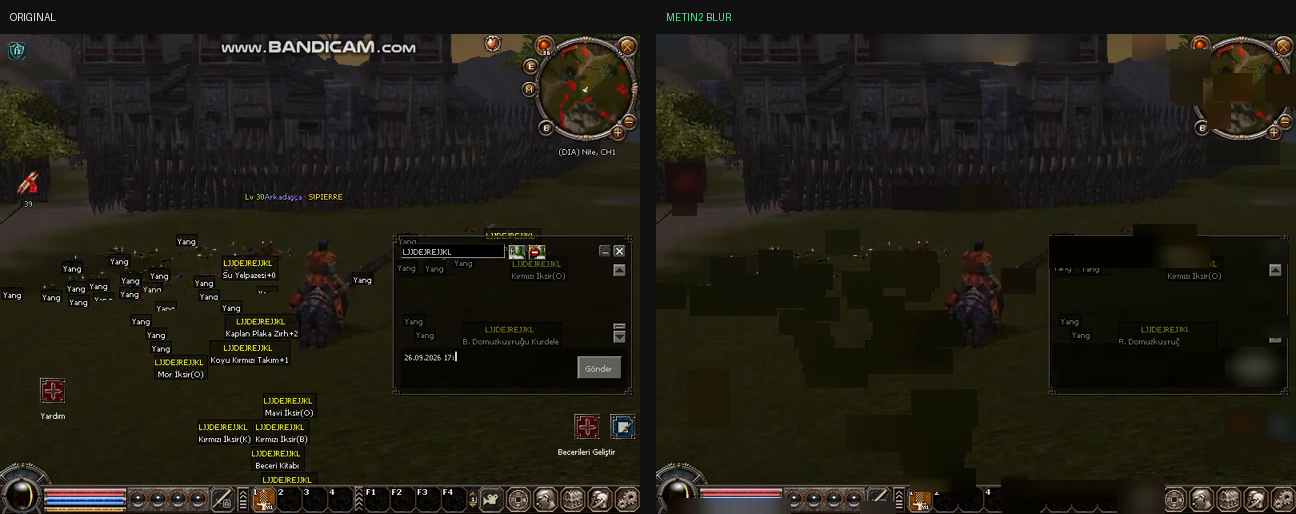
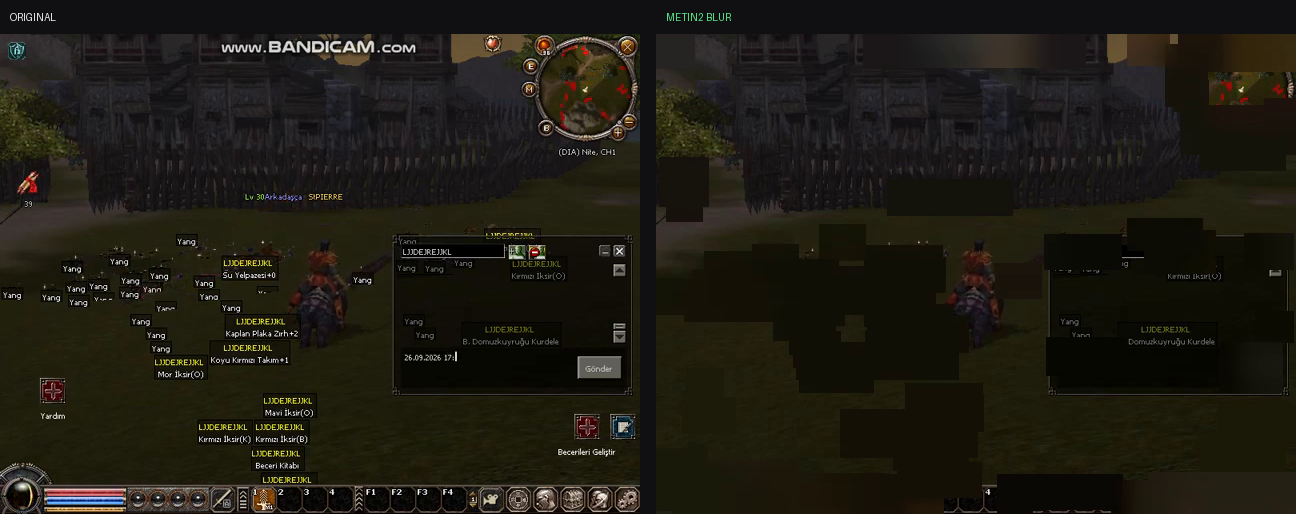
v1.0.1: isim etiketi / yeni ve hareketli yazi icin duzeltmeler
- Zaman-kararliligi filtresi varsayilan KAPALI: yeni beliren ve hareketli
  yaziyi ilk karelerde reddediyordu.
- Satir bolme: once bos satirlar (dogal satir), yalnizca max_h'i asan
  gruplarda seyrek satirdan bol. Onceki surumde arka plan dokusuna
  karismis bilesen TAMAMEN reddedildigi icin karakter basi isim
  etiketleri hic yakalanmiyordu.
- Bulaniklik gucu ayari (varsayilan 1.6) + olcumle daha genis yaricap.
- font_px otomatik hesabi ROI yuksekligini dikkate aliyor.

720x1280 olcum (kalan okunabilirlik, onceki -> yeni):
  karakter adi %4.5 -> %0.0 | item tooltip %1.8 -> %0.2
  Yang sayaci %9.6 -> %0.0 | sohbet %0 -> %0

diff --git a/src/detect.rs b/src/detect.rs
@@ -46,6 +46,7 @@ pub struct Cfg {
     pub margin_px: f32,
     pub max_line_h: f32,
     pub min_density: f32,
+    pub blur_scale: f32,
     pub roi: Option<Rect>,
     pub stable_min: f32,
 }
@@ -60,8 +61,9 @@ impl Default for Cfg {
             margin_px: 3.0,
             max_line_h: 3.2,
             min_density: 0.03,
+            blur_scale: 1.6,
             roi: None,
-            stable_min: 0.6,
+            stable_min: 0.0,
         }
     }
 }
@@ -74,8 +76,10 @@ impl Cfg {
     pub fn palette_tol(&self) -> i32 {
         (34.0 - 20.0 * self.sensitivity.clamp(0.0, 1.0)) as i32
     }
+    // Kutu icin bulaniklik yaricapı. Kucuk/dusuk kontrastli yazida genis yaricap
+    // fark yaratiyor (olcum: ayni kutuda 4.7 px -> %80 okunur, 9 px -> %38).
     pub fn blur_radius(&self) -> usize {
-        (self.font_px * 0.42).round().max(2.0) as usize
+        (self.font_px * 0.45 * self.blur_scale).round().clamp(3.0, 24.0) as usize
     }
 }
 
@@ -150,13 +154,6 @@ impl Detector {
             }
         }
         self.pal_lut_tol = tol;
-    }
-
-    fn row_has_ink(&self, y: usize, x0: usize, x1: usize) -> bool {
-        (x0..x1).any(|x| {
-            let i = y * self.w + x;
-            self.con[i] == 1 || self.pal[i] == 1
-        })
     }
 
     // con | pal maskesinde bir kenar satirinda piksel var mi
@@ -340,18 +337,73 @@ impl Detector {
         let (mut r_h, mut r_area, mut r_dens, mut r_gap, mut r_stab, mut r_tight, mut r_ok) = (0, 0, 0, 0, 0, 0, 0);
         let mut out = Vec::new();
         for (_, (cx0, cy0, cx1, cy1)) in comps {
-            // cok satirli bloklar (chat, isim+seviye) bilesen olarak gelir: satir satir ayir
-            let mut y = cy0;
-            while y < cy1 {
-                while y < cy1 && !self.row_has_ink(y, cx0, cx1) {
-                    y += 1;
+            // Satirlari say: bos ya da seyrek satirlar bolucudur. Yazi, arka plan dokusuna
+            // baglandiginda bilesen dev olur; seyrek satirlardan bolerek yazi satirini
+            // ayiriyoruz (onceki surum max_h'i asan grubu TAMAMEN reddediyordu ->
+            // karakter basi isim etiketleri hic yakalanmiyordu).
+            let ch = cy1 - cy0;
+            let mut rowcnt = vec![0u32; ch];
+            for (i, yy) in (cy0..cy1).enumerate() {
+                let mut n = 0u32;
+                for x in cx0..cx1 {
+                    let k = yy * w + x;
+                    if self.con[k] == 1 || self.pal[k] == 1 {
+                        n += 1;
+                    }
                 }
-                let ly0 = y;
-                while y < cy1 && self.row_has_ink(y, cx0, cx1) {
-                    y += 1;
+                rowcnt[i] = n;
+            }
+            let peak = rowcnt.iter().copied().max().unwrap_or(0).max(1);
+            let cut = ((peak as f32 * 0.30) as u32).max(1);
+            // 1) dogal satir gruplari: BOS satirlar bolucudur
+            let mut groups: Vec<(usize, usize)> = Vec::new();
+            let mut start: Option<usize> = None;
+            for (i, &n) in rowcnt.iter().enumerate() {
+                if n > 0 {
+                    if start.is_none() {
+                        start = Some(i);
+                    }
+                } else if let Some(s) = start.take() {
+                    groups.push((cy0 + s, cy0 + i));
                 }
-                let ly1 = y;
-                if ly1 - ly0 < min_h || ly1 - ly0 > max_h || cx1 - cx0 < min_w {
+            }
+            if let Some(s) = start {
+                groups.push((cy0 + s, cy1));
+            }
+            // 2) cok uzun gruplar: seyrek satirlardan bol. Boylece arka plan dokusuna
+            //    karisip devlesen bilesen icindeki yazi satiri da atilmaz (onceki surum
+            //    max_h'i asan grubu TAMAMEN reddediyordu).
+            for _ in 0..8 {
+                let mut split_at = None;
+                for (gi, &(a, b)) in groups.iter().enumerate() {
+                    if b - a > max_h {
+                        let lo = a + min_h;
+                        let hi = b - min_h;
+                        if lo < hi {
+                            let mid = (lo..hi)
+                                .map(|y| (y, rowcnt[y - cy0]))
+                                .min_by_key(|(_, v)| *v)
+                                .map(|(y, _)| y);
+                            if let Some(m) = mid {
+                                split_at = Some((gi, m));
+                                break;
+                            }
+                        }
+                    }
+                }
+                match split_at {
+                    Some((gi, m)) => {
+                        let (a, b) = groups[gi];
+                        groups[gi] = (a, m);
+                        groups.insert(gi + 1, (m, b));
+                    }
+                    None => break,
+                }
+            }
+            let _ = cut;
+
+            for (ly0, ly1) in groups {
+                if ly1 - ly0 < min_h || cx1 - cx0 < min_w {
                     r_h += 1;
                     continue;
                 }
@@ -424,12 +476,6 @@ impl Detector {
                     r_stab += 1;
                     continue;
                 }
-                if dbg && self.seen >= STAB_K && r_ok == 1 {
-                    eprintln!(
-                        "bilesen={} red: h={r_h} alan={r_area} yogunluk={r_dens} bosluk={r_gap} kararli={r_stab} kutu={r_tight} | kabul={r_ok} font={} cerceve={:.0} esik_kar={:.2}",
-                        comps_len, cfg.font_px, self.frame_mean, cfg.stable_min
-                    );
-                }
                 r_ok += 1;
 
                 // birlestirme genislemesini geri al: kutu yazi cekirdeginin etrafina kenetlenir
@@ -467,6 +513,13 @@ impl Detector {
                 }
                 out.push((bx0, by0, bx1, by1));
             }
+        }
+        if dbg && self.seen % 30 == 1 {
+            eprintln!(
+                "bilesen={} satir_dene={} | red: h={r_h} alan={r_area} yogunluk={r_dens} bosluk={r_gap} kararli={r_stab} kutu={r_tight} | KABUL={r_ok} cikti={} font={:.1} min_h={} max_h={} min_w={}",
+                comps_len, r_h + r_area + r_dens + r_gap + r_stab + r_tight + r_ok,
+                out.len(), cfg.font_px, min_h, max_h, min_w
+            );
         }
         out
     }

diff --git a/src/main.rs b/src/main.rs
@@ -66,7 +66,7 @@ impl App {
             probe: None,
             cfg: Cfg::default(),
             font_auto: true,
-            look_ahead: 2,
+            look_ahead: 3,
             hold: 6,
             safe_on: [false; 4],
             // x, y, genislik, yukseklik (yuzde): chat, orta isim seridi, minimap, tum ekran
@@ -93,7 +93,8 @@ impl App {
         match ffmpeg::probe(p) {
             Ok(pr) => {
                 if self.font_auto {
-                    self.cfg.font_px = 12.0 * pr.h as f32 / 768.0;
+                    let r = self.roi_pixels(pr.w, pr.h);
+                    self.cfg.font_px = auto_font_px(pr.w, pr.h, r);
                 }
                 self.cfg.merge_r = (self.cfg.font_px * 0.6).round().max(1.0) as usize;
                 self.input = path.to_string();
@@ -180,6 +181,20 @@ impl App {
         });
     }
 
+    fn roi_pixels(&self, w: usize, h: usize) -> Option<(usize, usize, usize, usize)> {
+        let (a, b, c, d) = (self.roi[0], self.roi[1], self.roi[2], self.roi[3]);
+        if (a, b, c, d) == (0, 0, 100, 100) {
+            return None;
+        }
+        let (px, py) = (a as f32 / 100.0 * w as f32, b as f32 / 100.0 * h as f32);
+        Some((
+            px as usize,
+            py as usize,
+            (px + c as f32 / 100.0 * w as f32) as usize,
+            (py + d as f32 / 100.0 * h as f32) as usize,
+        ))
+    }
+
     fn roi_rect(&self) -> Option<Rect> {
         if self.probe.is_none() {
             return None;
@@ -239,6 +254,19 @@ impl App {
     }
 }
 
+// Metin2 yazi 12 px @768. ROI verildiyse oyuncunun gorunur yuksekligi kullanilir
+// (masaustu kaydinda 415 px oyun penceresi -> 6.5 px). ROI yoksa karenin yuksekligi:
+// 1280x720 -> 11, dikey 720x1280 -> 20. min(w,h) denemesi yapildi, 720x1280
+// icin gercek yazi ~11 px olmasina ragmen kotu sonuc verdi (olcum: bilesen sayisi ve
+// bulanik alan) -- yukseklik formulu korundu.
+fn auto_font_px(_w: usize, h: usize, roi: Option<(usize, usize, usize, usize)>) -> f32 {
+    let ref_h = match roi {
+        Some((_x0, y0, _x1, y1)) => (y1.saturating_sub(y0)) as f32,
+        None => h as f32,
+    };
+    (12.0 * ref_h / 768.0).clamp(4.0, 40.0)
+}
+
 fn usage_exit() -> ! {
     eprintln!(
         "kullanim: metin2-blur --cli <video> [cikti] [hassasiyet] [font_px] [roi] [mod] [bolgeler]\n  roi: x,y,g,y yuzde (0,0,100,100 = tum ekran)\n  mod: ikisi | palet | yapi\n  bolgeler: x,y,g,y;x,y,g,y yuzde -> her zaman bulaniklasir"
@@ -280,7 +308,16 @@ impl eframe::App for App {
                         .hint_text("/home/kali/videos/metin2.mp4")
                         .desired_width(340.0),
                 );
-                if ui.button("Yukle").clicked() {
+                if self.font_auto {
+                if let Some(pr) = self.probe.clone() {
+                    let want = auto_font_px(pr.w, pr.h, self.roi_pixels(pr.w, pr.h));
+                    if (want - self.cfg.font_px).abs() > 0.6 {
+                        self.cfg.font_px = want;
+                        self.cfg.merge_r = (want * 0.6).round().max(1.0) as usize;
+                    }
+                }
+            }
+            if ui.button("Yukle").clicked() {
                     let p = self.input.clone();
                     self.load(&p);
                 }
@@ -371,6 +408,8 @@ impl eframe::App for App {
 
                 ui.label("Satir birlestirme (px)");
                 ui.add(egui::Slider::new(&mut self.cfg.merge_r, 0..=40));
+                ui.label("Bulaniklik gucu");
+                ui.add(egui::Slider::new(&mut self.cfg.blur_scale, 0.5..=3.0).text("1.6 = varsayilan"));
                 ui.label("Kutu genisletme (px)");
                 ui.add(egui::Slider::new(&mut self.cfg.margin_px, 0.0..=20.0));
                 ui.end_row();
@@ -620,11 +659,16 @@ fn main() -> eframe::Result {
         if let Some(f) = args.get(5) {
             cfg.font_px = f.parse().unwrap_or(cfg.font_px);
         } else if let Ok(pr) = ffmpeg::probe(Path::new(&input)) {
-            // Metin2 yazi 12 px @768; 1024x768 pencereden kucultulmus masaustu kaydinda
-            // yazi olceklenir, bu yuzden kullanici gerekirse elle verir
-            cfg.font_px = 12.0 * pr.h as f32 / 768.0;
+            cfg.font_px = auto_font_px(pr.w, pr.h, None);
         }
-        cfg.merge_r = (cfg.font_px * 0.6).round().max(1.0) as usize;
+        if let Ok(b) = std::env::var("M2_BLUR") {
+            cfg.blur_scale = b.parse().unwrap_or(cfg.blur_scale);
+        }
+        let mf: f32 = std::env::var("M2_MERGE")
+            .ok()
+            .and_then(|v| v.parse().ok())
+            .unwrap_or(0.6);
+        cfg.merge_r = (cfg.font_px * mf).round().max(1.0) as usize;
         match args.get(7).map(|s| s.as_str()) {
             Some("palet") => cfg.mode = Mode::Palette,
             Some("yapi") => cfg.mode = Mode::Structure,
@@ -681,7 +725,7 @@ fn main() -> eframe::Result {
             input,
             output: output.clone(),
             cfg,
-            look_ahead: 2,
+            look_ahead: 3,
             hold: 6,
             extra_rects: extra,
         };

diff --git a/src/ffmpeg.rs b/src/ffmpeg.rs
@@ -261,8 +261,23 @@ pub fn run(job: Job, cancel: Arc<AtomicBool>, tx: Sender<Msg>) -> io::Result<()>
             }
             let boxes = det.detect(&buf, &job.cfg);
             if let Some(path) = std::env::var_os("M2_PPM") {
-                if n == 0 {
+                let want: u64 = std::env::var("M2_PPM_FRAME")
+                    .ok()
+                    .and_then(|v| v.parse().ok())
+                    .unwrap_or(0);
+                let paint_mask = std::env::var_os("M2_PPM_MASK").is_some();
+                if n == want {
                     let mut img = buf.clone();
+                    if paint_mask {
+                        for i in 0..det.mask_ink.len() {
+                            if det.mask_ink[i] == 1 {
+                                let o = i * 3;
+                                img[o] = (img[o] as u32 * 2 / 5) as u8;
+                                img[o + 1] = 30;
+                                img[o + 2] = 30;
+                            }
+                        }
+                    }
                     for r in &boxes {
                         for (x, y) in [
                             (r.0, r.1), (r.2 - 1, r.1), (r.0, r.3 - 1), (r.2 - 1, r.3 - 1),
@@ -283,7 +298,9 @@ pub fn run(job: Job, cancel: Arc<AtomicBool>, tx: Sender<Msg>) -> io::Result<()>
                     f.write_all(&img).unwrap();
                 }
             }
-            if std::env::var_os("M2_BOXES").is_some() && (n < 2 || n == 25) {
+            if std::env::var_os("M2_BOXES").is_some()
+                && (n < 2 || n == std::env::var("M2_PPM_FRAME").ok().and_then(|v| v.parse::<u64>().ok()).unwrap_or(25))
+            {
                 eprintln!("kare {n}: {} kutu {boxes:?}", boxes.len());
                 let (bw, bh) = (w / 100, h / 50);
                 for by in 0..50 {

diff --git a/README.tr.md b/README.tr.md
@@ -65,6 +65,14 @@ parlak alanları (gökyüzü, arayüz panelleri) siler, glif çizgileri arasınd
 > referanstan uzaklaşıyor. Bu yüzden tespiti yapı yapı taşıyor, palet sadece
 > hatırlatma ekliyor.
 
+## Dikey kayitlar (720x1280 telefon kaydi)
+
+![dikey kayit](docs/demo-vertical.png)
+
+Telefon/portre kayitlarinda yazilar 10-12 px'e dusable. Karakter adi, item
+tooltip, Yang sayaci ve sohbet olcumde tamamen kapatildi; karakter basi isim
+etiketinin bir kismi kalmaya devam edebiliyor (bkz. [Sinirlar](#sinirlar)).
+
 ## Kurulum
 
 **Windows** — releases sayfasından `Metin2Blur.exe` indir. Kurulum tamamen bu:
@@ -121,11 +129,16 @@ Metin2Blur.exe --cli <video> [cikti] [hassasiyet] [font_px] [roi] [mod] [bolgele
 
 Tahmin değil, ölçüm — bu bölümü lütfen oku:
 
-* **Küçük ve düşük kontrastlı yazıda otomatik tespit %100 değil.** Oyun
-  penceresinin 8 px olduğu 640×480 masaüstü kaydında, 8 px yazı ile 3B sahne
-  dokusunun kontrast dağılımları **örtüşüyor**; bazı uçan isim etiketleri
-  geçiyor. Ölçülen değer: örneklenen 7 isim etiketi bölgesinden 4'ü orijinal
-  keskinliğinin 0.84–1.00 arasında kaldı.
+* **Otomatik tespit %100 değil — ölçülmüş.** Metin2'de iki sert durum var:
+  * *Karakter başı isim etiketi, parlak/dokulu 3B sahnenin üzerinde:* dikey
+    720×1280 kayıtta etiketin sağ yarısı bulanıklaşıyor, sol yarısı %31
+    okunabilirlikte kalabiliyor. Sebep: koyu kırmızı yazının (81,35,25) parlak
+    çim üzerindeki yerel tepkisi (p90 = 59) eşik sınırında ve dokuyla iç içe.
+  * *Masaüstü kaydı, küçük oyun penceresi:* 8 px yazı ile 3B dokunun kontrast
+    dağılımları örtüştüğü için bazı uçan etiketler geçebiliyor.
+  → Bu iki durumda **bölge çiz**; oyun düzeni sabit olduğu için en isabetli yöntem
+  o. v1.0.1'de ölçülen iyileşme (720×1280): karakter adı %4.5→%0.0, item
+  tooltip %1.8→%0.2, Yang sayacı %9.6→%0.0, sohbet %0→%0.
 * Tam ekran kaydında çok daha güçlü (test: 7/7 metin bölgesi orijinal
   keskinliğin 0.01–0.04'üne indi, arayüz panelinde yanlış pozitif yok).
 * **Okunamaması kesin olması gereken her şey için bölge kullan.** Sabit oyun

diff --git a/README.md b/README.md
@@ -67,6 +67,15 @@ and upscaling.
 > from the reference value. That is why the structure channel carries the
 > detection and the palette only adds recall.
 
+## Portrait captures (720x1280 phone recording)
+
+![portrait capture](docs/demo-vertical.png)
+
+On phone/portrait recordings the text drops to 10-12 px. Character name, item
+tooltip, Yang counter and chat were fully redacted in the measurement; part of a
+nameplate over bright scene texture can still survive (see
+[Limitations](#limitations)).
+
 ## Install
 
 **Windows** — download `Metin2Blur.exe` from the releases page. That is the
@@ -123,11 +132,18 @@ example:
 
 Measured, not guessed — please read this part:
 
-* **Automatic detection is not 100 % on small, low-contrast text.** On a
-  640×480 desktop capture where the game window is 8 px tall, the contrast
-  distribution of 8 px text and of 3D scene texture *overlap*, so some floating
-  nameplates survive. Verified numbers: 4 of 7 sampled nameplate regions stayed
-  between 0.84 and 1.00 of their original sharpness.
+* **Automatic detection is not 100 % — measured.** Two hard cases in Metin2:
+  * *Nameplates over a bright, textured 3D scene:* on a vertical 720×1280
+    capture the right half of the nameplate is redacted and the left half can
+    survive at %31 legibility. Reason: the dark-red glyphs (81,35,25) sit right
+    on the detection threshold over bright grass (response p90 = 59) and merge
+    with the scene texture.
+  * *Desktop capture with a small game window:* 8 px text and 3D texture have
+    overlapping contrast distributions, so some floating labels get through.
+  → Use **regions** for both (below); the game layout is fixed, so it is the
+  most reliable method. Measured improvement in v1.0.1 on the 720×1280 clip:
+  character name %4.5→%0.0, item tooltip %1.8→%0.2, Yang counter %9.6→%0.0,
+  chat %0→%0.
 * It is much stronger on a full-screen capture (tested: 7/7 text regions reduced
   to 0.01–0.04 of original sharpness, no false positives on the UI panel).
 * **Use regions for anything that must not be readable.** That is what the
